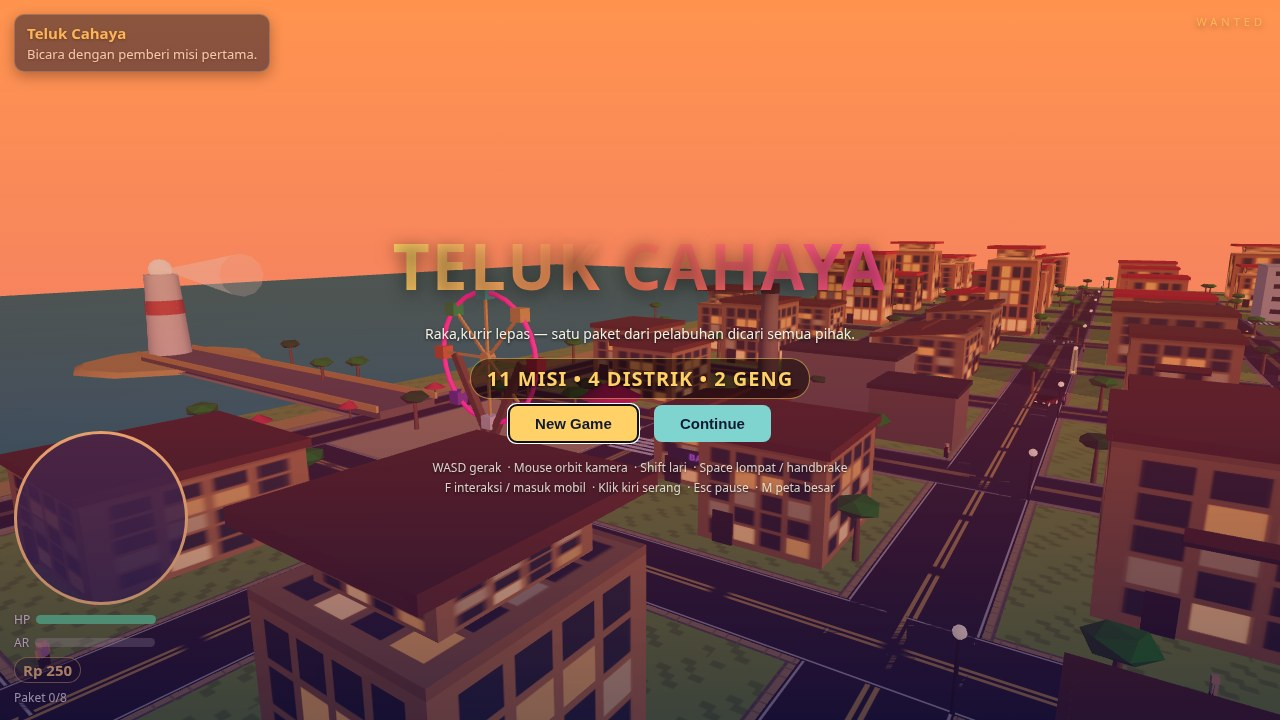
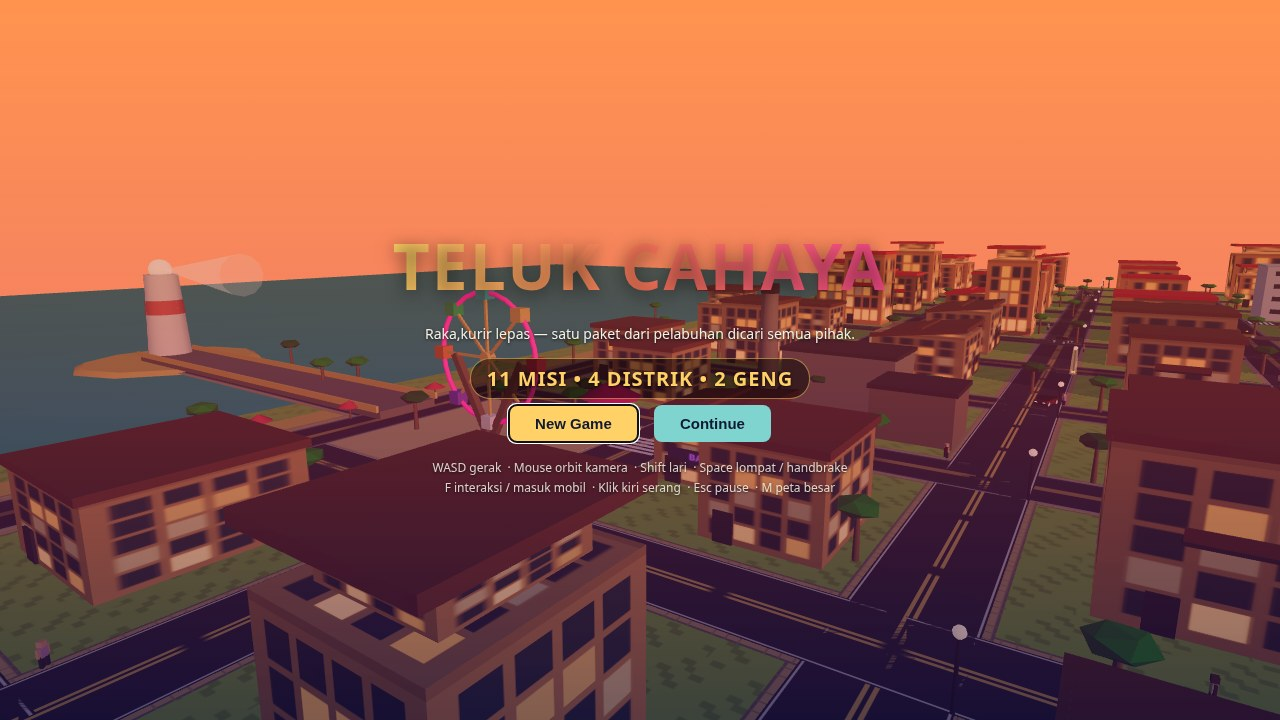
CP24 M22: hide HUD on title (dossier 162486 B, +217)

Changed region(s): [[0.0, 0.5806, 0.1562, 0.9778], [0.0, 0.0, 0.2188, 0.1222]]

diff --git a/game/src/hud.js b/game/src/hud.js
@@ -38,6 +38,7 @@ export function createHud() {
   const el = {
     hud: $('hud'),
     minimap: $('minimap'),
+    minimapWrap: $('minimap-wrap'),
     healthBar: $('health-bar'),
     healthText: $('health-text'),
     armorBar: $('armor-bar'),
@@ -422,6 +423,7 @@ export function createHud() {
   }
 
   function showMenu(name) {
+    for (const n of [el.minimapWrap, el.wantedStars, el.objectivePanel, el.vehiclePanel, el.toastEl, el.districtCard]) if (n) n.style.visibility = name === 'title' ? 'hidden' : '';
     const show = (node, on) => {
       if (!node) return;
       node.style.display = on ? 'flex' : 'none';
